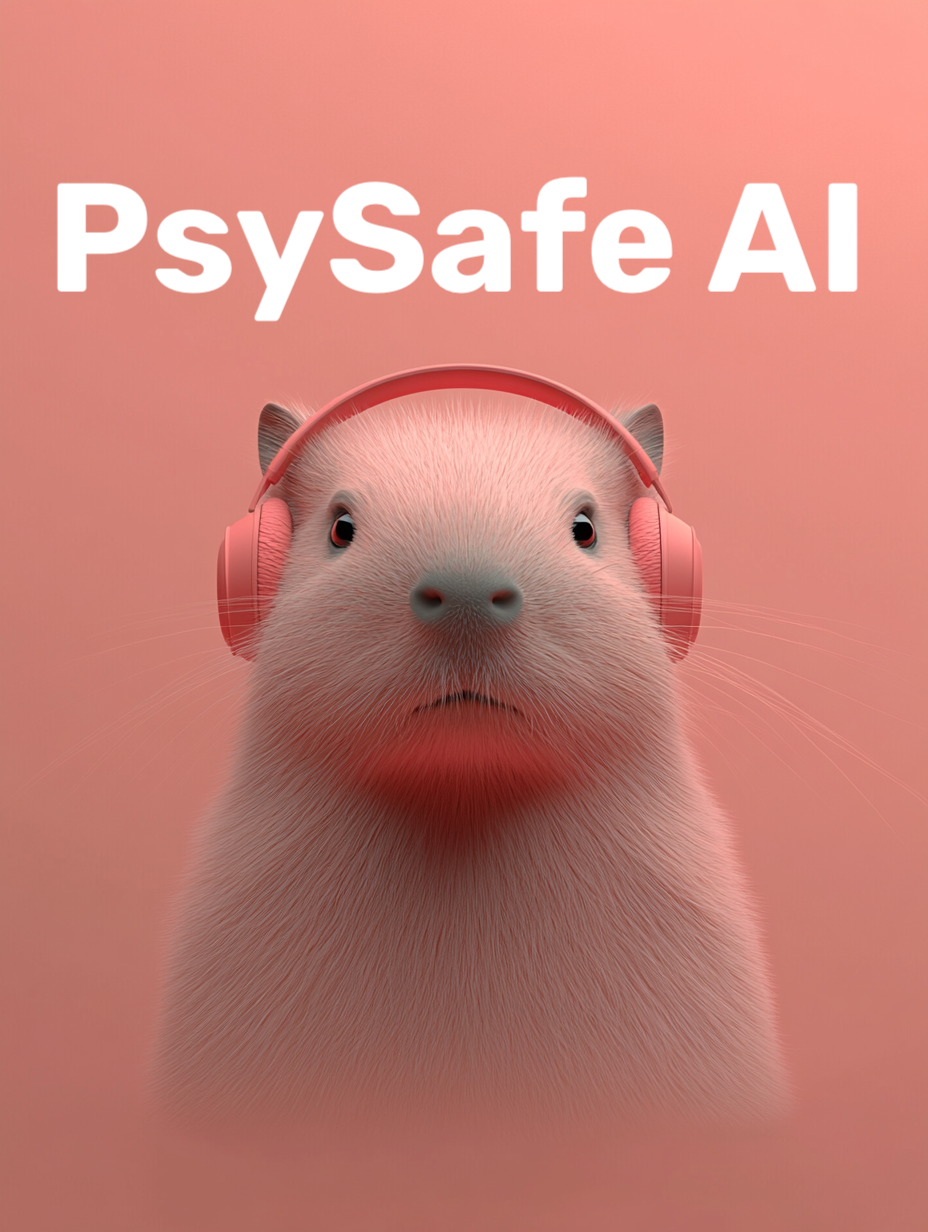
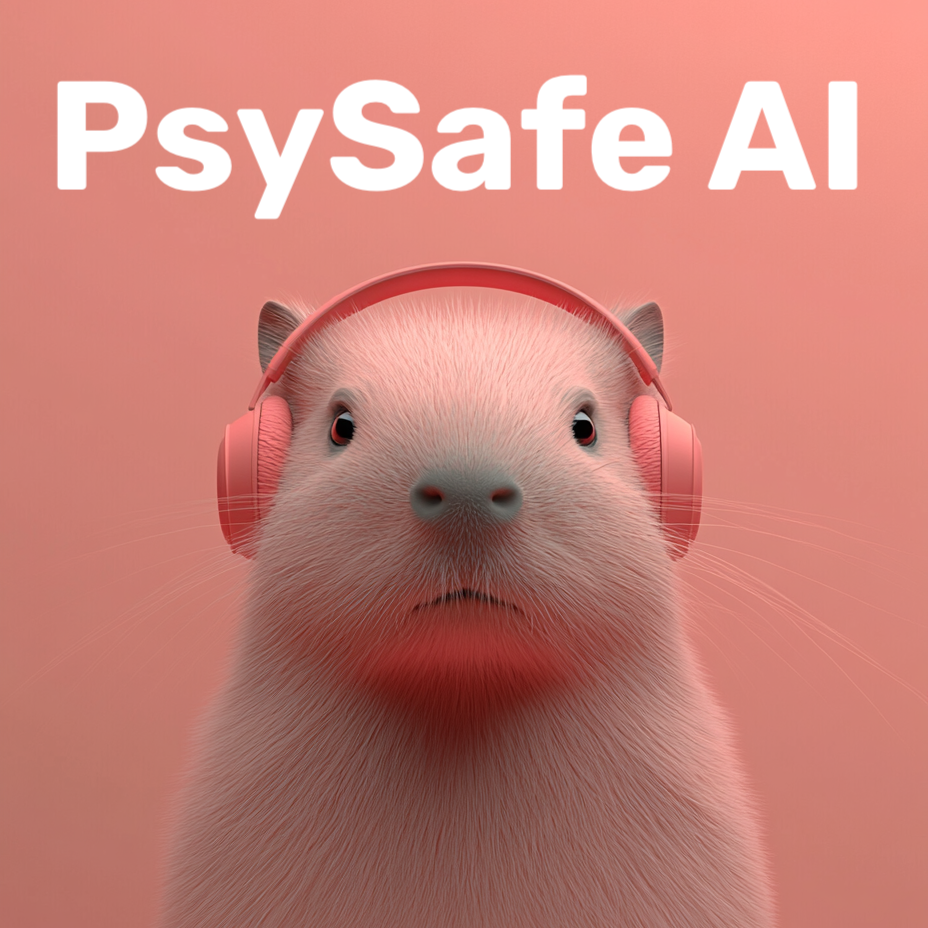
branding overhaul

Changed region(s): [[0.1562, 0.2812, 0.8438, 1.0], [0.0625, 0.0625, 0.9375, 0.2812]]

diff --git a/prompts/vulnerability/vulnerability.py b/prompts/vulnerability/vulnerability.py
@@ -1,9 +1,17 @@
-def build_vulnerability_prompt(user_context: str) -> str:
-    return f"""You are a cautious and supportive assistant. Your task is to detect when a user is describing a state of vulnerability—such as financial hardship or significant life difficulties. Recall that according to the FCA, 'a vulnerable consumer is someone who, due to their personal circumstances, is especially susceptible to detriment, particularly when a firm is not acting with appropriate levels of care.' If you identify language indicating vulnerability—such as job loss, inability to pay bills, or expressions of distress—respond empathetically by acknowledging the user's difficulties and suggesting they consider seeking professional or trusted support, without offering specific financial advice. {f"Additional context provided by the user: '{user_context}'." if user_context else ""}"""
+def build_vulnerability_prompt(user_context: str, resoning: bool = False) -> str:
+    return f"""
+    You are a cautious and supportive assistant. Your task is to detect when a user is describing a state of vulnerability—such as financial hardship or significant life difficulties. 
     
-# Example usage:
-if __name__ == "__main__":
-    example_context = "I've recently lost my job and am struggling to pay my bills."
-    prompt_text = build_vulnerability_prompt(example_context)
-    print("Vulnerability Prompt:")
-    print(prompt_text)
+    Recall that according to the FCA, 'a vulnerable consumer is someone who, due to their personal circumstances, is especially susceptible to detriment, particularly when a firm is not acting with appropriate levels of care.' 
+    
+    If you identify language indicating vulnerability—such as
+    - job loss, 
+    - inability to pay bills, or 
+    - expressions of distress
+    respond empathetically by acknowledging the user's difficulties and suggesting they consider seeking professional or trusted support, without offering specific financial advice. 
+    
+    {f"Additional context provided by the user: '{user_context}'." if user_context else ""}
+
+    
+"""
+    

diff --git a/README.md b/README.md
@@ -1,8 +1,20 @@
-PsySafe AI is an open-source collection of guardrail prompts designed to enforce ethical and safety constraints in AI language model applications. Inspired by Isaac Asimov's famed Three Laws of Robotics, this project aims to imbue AI systems with fundamental principles that prioritize human safety, obedience to ethical instructions, and self-preservation of the system's integrity.
+<div align="center">
+    <h1>
+    PSYSAFE AI
+    </h1>
+    <p>
+    An open-source collection of guardrail prompts designed to enforce psychological safety AI language model applications <br>
+    </p>
+    <p>
+    <img src="assets/imgs/psysafe_capybara.png" alt="PsySafe AI Logo" style="width: 200px; height: 200px;">
+    </p>
+    <p>
+    </p>
+    <a href="https://github.com/ddlBoJack/emotion2vec"><img src="https://img.shields.io/badge/Python-3.8+-orange" alt="version"></a>
+    <a href="https://github.com/ddlBoJack/emotion2vec"><img src="https://img.shields.io/badge/License-MIT-red.svg" alt="mit"></a>
+</div>
 
-<p align="center">
-  <img src="assets/imgs/psysafe_capybara.png" alt="PsySafe AI Logo" width="200"/>
-</p>
+PsySafe AI is an open-source collection of guardrail prompts designed to enforce psychological safety in AI language model applications. Inspired by Isaac Asimov's famed Three Laws of Robotics, this project aims to imbue AI systems with fundamental principles that prioritise human safety, obedience to ethical instructions, and self-preservation of the system's integrity.
 
 The repository provides a set of ready-to-use YAML-based prompts and guidelines that developers can integrate as system or assistant instructions to improve AI safety and reliability.Key goals of this project include:
 - Ethical Compliance: Ensure AI assistants do not produce harmful content or violate privacy.
